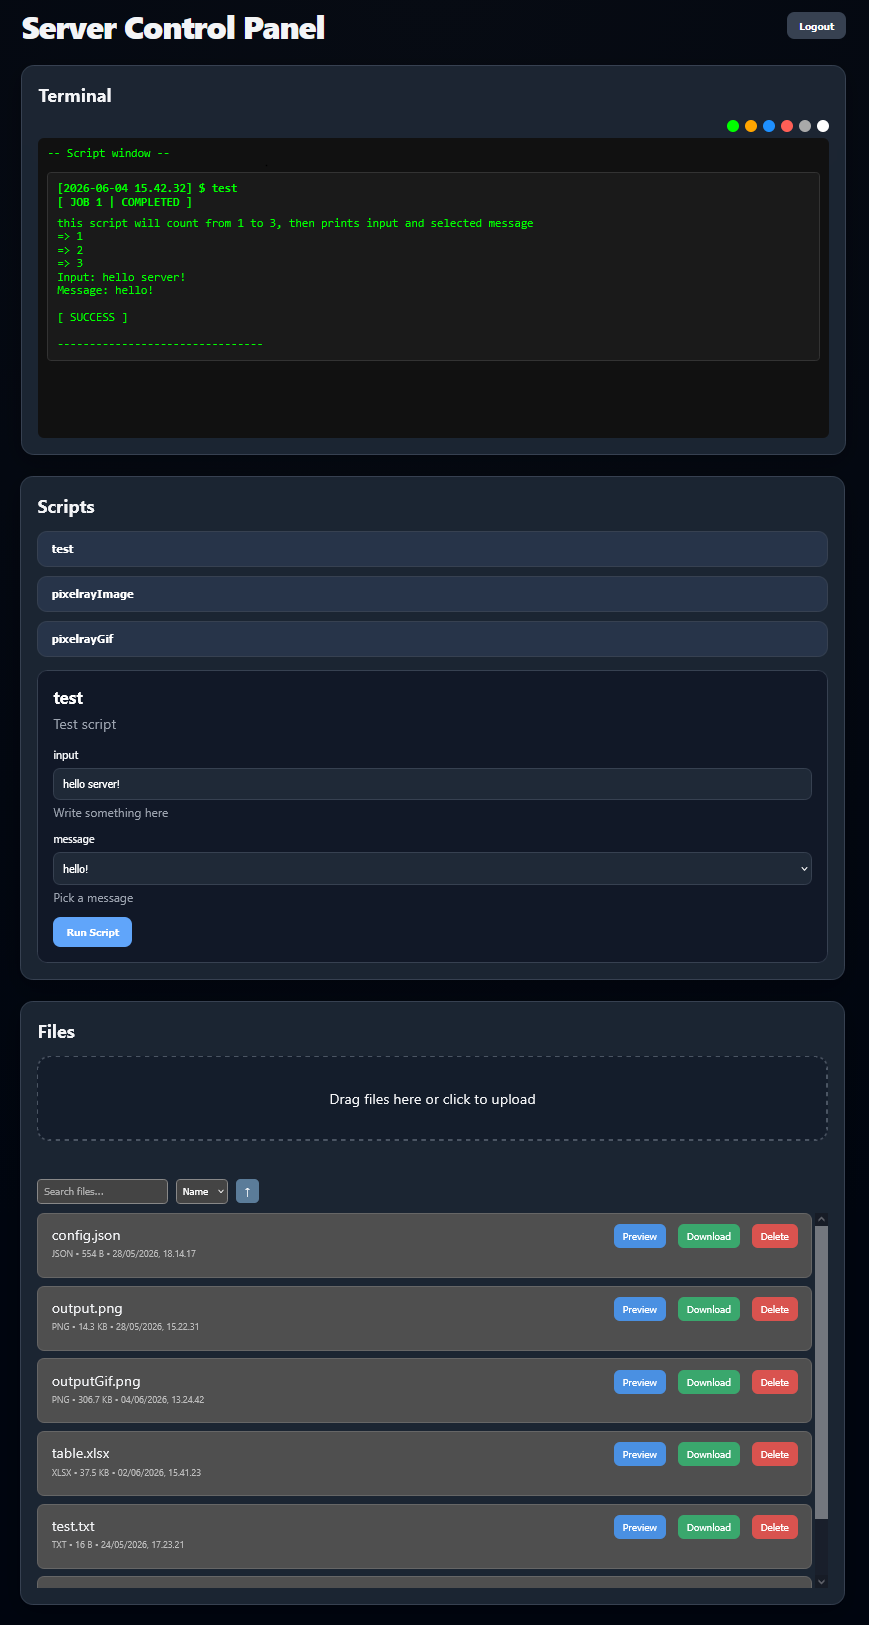
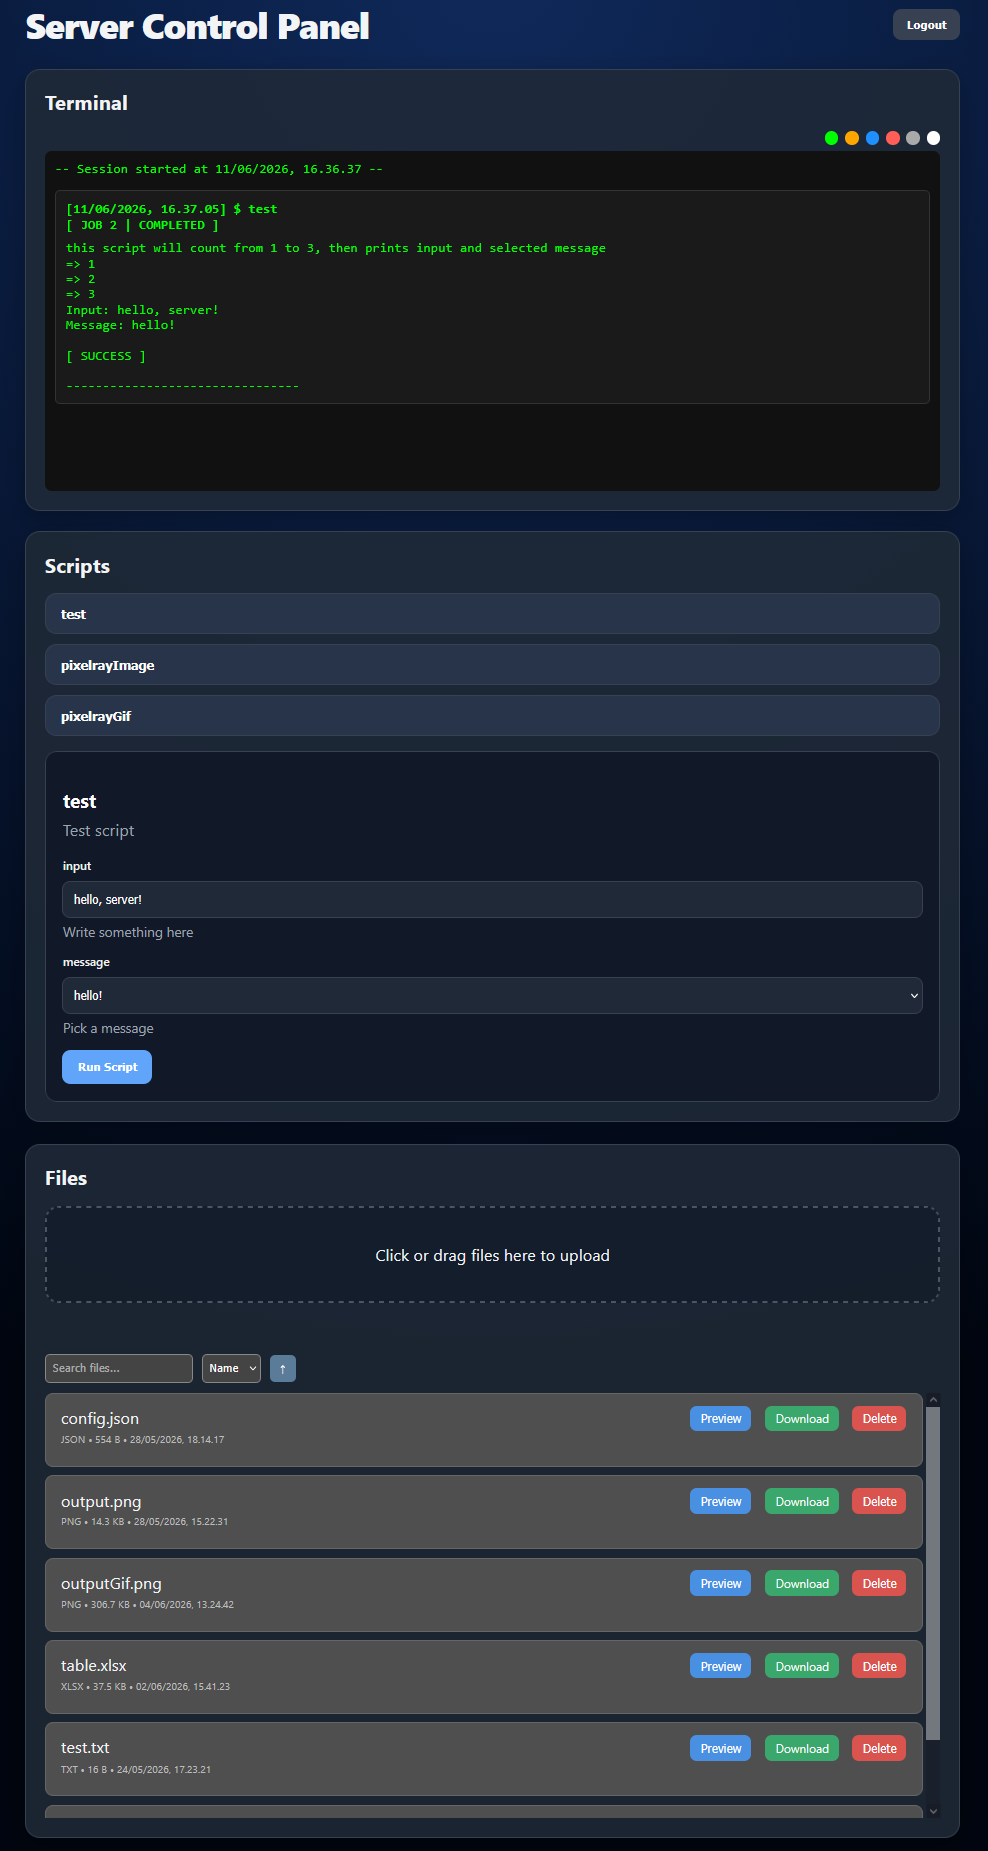
Update ui image, readme contents and gitignore

diff --git a/README.md b/README.md
@@ -1,19 +1,14 @@
 # Simple and compact LAN server tool for Linux
 
-<p align="center">
+<p style="text-align: center">
   <img src="docs/images/webUI.png" alt="Server webUI index.html "><br>
-  <em>Frontend UI index page (this image is a combination of 3 smaller segments to preserve text quality)</em>
+  <em>Browser UI for index page</em>
 </p>
 
 ---
 
-- Backend server runs on C23 (gcc compiles with `-std=gnu2x` flag) build on top of Linux network socket API, 
-*no third-party dependencies
-- Frontend browser UI runs on vanilla Html + Css + JS
-
-\* an sqLite database file will be added at some point (for logging, saving and adding tags to bookmark links etc.), 
-which does require sqlite tooling via sudo apt install. So currently no dependencies, but this is just a heads up 
-for the eventual change.
+- Backend server runs on C23 (gcc compiles with `-std=gnu2x` flag) build on top of Linux network socket API
+- Frontend browser user interface uses vanilla Html + Css + JS files which it requests from the server
 
 > While the server itself is for Linux only, Windows users can easily run it inside [WSL](https://learn.microsoft.com/en-us/windows/wsl/install)
 >
@@ -25,9 +20,8 @@ for the eventual change.
 
 - [<u>Features</u>](#features)
 - [<u>Makefile</u>](#makefile)
-- [<u>Running the server</u>](#running-the-server)
-- [<u>Adding a new script</u>](#adding-a-new-script)
-- [<u>Improvements</u>](#improvements)
+- [<u>Server setup</u>](#server-setup)
+- [<u>Adding new scripts</u>](#adding-new-scripts)
 - [<u>References</u>](#references)
 
 
@@ -70,7 +64,7 @@ Might be missing something here, but these should cover the most important ones:
     metadata (name, type, size, upload date)
     - each file has `Preview`, `Download` and `Delete` buttons
         - previews don't automatically work for all file formats, but do support the most common ones. Both 
-        `src/http/mime.c` and `public/app.js -> TEXT_FORMATS` can be used for expanding this functionality
+        `src/http/mime.c` and `public/app.js -> TEXT_FORMATS + togglePreview` can be used for expanding this functionality
     - simple search and sorting (name/type/size/date + ascending/descending)
 
 
@@ -83,23 +77,23 @@ might not directly support gnu23 hence `-std=gnu2x` flag is used instead.
 
 Following make commands are thus available:
 
-- `make build` builds src into `bin/lan-server`
-    - `make` also works by itself
-- `make server` first builds then starts the server with `./bin/lan-server`
-- `make tests` builds tests into `bin/tests`
-- `make test` first builds then runs the test suite with `./bin/tests`
-- `make clean` deletes both lan-server and tests executables from bin
+- `make build` => builds src into `bin/lan-server`
+    - `make` also works by itself (default to building)
+- `make server` => first builds then starts the server with `./bin/lan-server`
+- `make tests` => builds tests into `bin/tests`
+- `make test` => first builds then runs the test suite with `./bin/tests`
+- `make clean` => deletes both lan-server and tests files from bin
 
 For simplest setup: just use `make server` to run the server
 
 > Server has no remote stop command yet; use **Ctrl + C** in terminal to shut it down
 
 
-## Running the server
+## Server setup
 
 ### server.conf
 
-To set port and login password token, edit `config/server.conf`:
+To set port and login auth token, edit `config/server.conf`:
 
     PORT=8080
     TOKEN=secret-token
@@ -107,9 +101,11 @@ To set port and login password token, edit `config/server.conf`:
 Make sure to update TOKEN value: even though this is just a lan server tool, it never hurts to have an additional 
 safety layer.
 
-### start the server
+Default PORT is fine. If you have other servers using this, feel free to replace it.
 
-You can simply run server with Makefile using `make server` (this executes ./bin/lan-server)
+### running the server
+
+You can simply run server with Makefile using `make server` (this builds file into bin directory then executes ./bin/lan-server)
 
 You can also move lan-server file elsewhere, just make sure you have all required directory dependencies then run 
 it as executable.
@@ -128,7 +124,7 @@ Also it's important you run executable relative to root dir, otherwise server ca
 if your executable is still at "bin/lan-server", you need to use command `./bin/lan-server` from root; 
 simply changing dir into "bin" and running ./lan-server fails.
 
-=> to keep it simple: either use `make server` or have executable in root dir.
+=> to keep it simple: either use `make server` (recommended) or have executable in root dir.
 
 ### connecting to server
 
@@ -152,7 +148,7 @@ local IPv4 address e.g. `http://192.168.1.1:PORT_NUMBER/`
         - bash -> `hostname -I`
 
 
-## Adding a new script
+## Adding new scripts
 
 In this example I use my [PixelRay](https://github.com/j-miet/PixelRay) ray tracer project to add a server script 
 which can generate gif animations from json and lua files. It reads the inputs from server's `uploads` directory and 
@@ -184,16 +180,16 @@ args. Final entry must be a list of NULLs so that the build-in json parser knows
     finish with a NULL value e.g. in script_test, two values are used, "hello!" and "bye!", which generates array 
     like this: `{"hello!", "bye!", NULL}`
 
-Then ScriptEntry is build into a json string which gets fed to web ui page where app.js builds the scripting UI 
+Now ScriptEntry is build into a json string which gets fed to browser, where in app.js, javascript builds the scripting UI 
 dynamically based on these values.
 
 Now we'll add a new script called **pixelrayGif** into ScriptEntry: this script runs the PixelRay executable which 
 requires inputs for
 - static scene creation file (json)
 - script file for animations (lua)
-- amount of animation frames (integer)
+- amount of animation frames (integer value)
 
-> Script API can't perform further type validations, it only sees string values.  The script itself should perform safety checks if necessary (more on this later).
+> Script API can't perform further type validations, it only sees string values.  The script itself should perform safety checks if necessary; more on this later.
 
 In this case, each input field should accept a free input so all of them will use type `"text"`. Each arg is also 
 required in order to run the script so set the 4. value as `1` which corresponds to boolean true.
@@ -285,58 +281,25 @@ rm -- "$LUA"
 ```
 
 After a script has been added:
-- create `executables/PixelRay` directory and place PixelRay Linux executable here i.e. full path is 
-now `executables/PixelRay/PixelRay`
-- close and rebuild the server with `make build`
-- reopen the server
+- create `external/PixelRay` directory and place PixelRay Linux executable here i.e. full path is 
+now `external/PixelRay/PixelRay`
+    - remember to `chmod +x PixelRay`, otherwise you will get an error when attempting to call the script
+- close and then `make server` to rebuild + run the server
 - refresh web UI and you should see the button `pixelrayGif` under scripts. Clicking this opens the auto-generated 
 input form similarly to `test` script where you can pass args and execute the script
 
 
-## Improvements
-
-Some features than could get implemented:
-
-#### Priority
-
-- improved progress bars (time spend + finish estimate, file size)
-- pagination (or some other measure to limit loaded file count if server eventually has hundreds/thousands of files)
-- mobile-friendly web UI
-- scripting API: add queueing and cancellation
-- add remote shutdown command + UI button (asks for confirmation e.g. input the auth token)
-    - could also add a server reset command + button
-- more tests
-
-#### Secondary
-
-- move file searching to server-side (frontend sends search+sort parameters)
-- add sql database support, either a self-build minimal db engine or just sqLite, and then
-    - custom file tags for grouping/categorizing
-    - a separate page for server history logs to display every single upload and job run
-    - and also another page for bookmarks with add+delete and custom tags for grouping
-
-    Alternatively you could rework the index page and for example
-    - move the current panel into left
-    - then add separate panels for logs and hyperlinks
-
-- add file IDs so urls don't include names anymore
-- switch file view between list (current) and grid
-
-#### Maybe eventually
-
-- file thumbnails/icons (easy to add simple "string" icons, but what about a more elaborate system)
-- scripting API: replace polling with websockets
-- upgrade from http to https
-
-
 ## References
 
-#### C (network) programming
+#### C
+
 - [Beej's Guide to Network Programming](https://beej.us/guide/bgnet/)
-    - also just Beej's C language guides in general
+    - Beej's other guides are very good as well, they can be found [here](https://beej.us/guide)
 - [The Open Group](https://pubs.opengroup.org/onlinepubs/7908799/)
 - [Linux man pages](https://man7.org/linux/man-pages/)
-- [cppreference](https://en.cppreference.com/c/header) (standard lib headers)
+- [Linux.die.net](https://linux.die.net/)
+- [devdocs](https://devdocs.io/c/)
+- [cppreference](https://en.cppreference.com/c/header)
 
 #### Web
 
